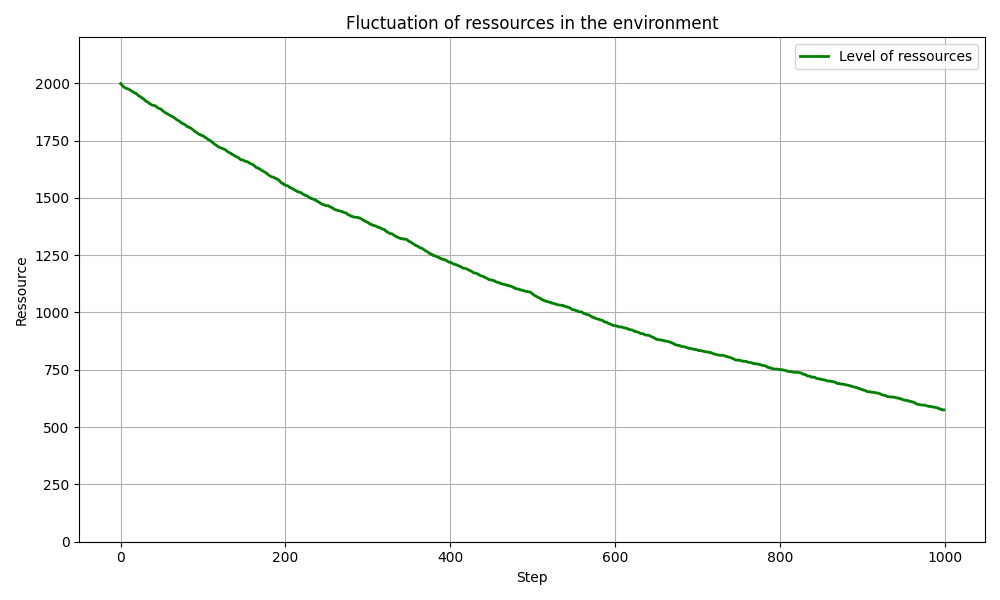
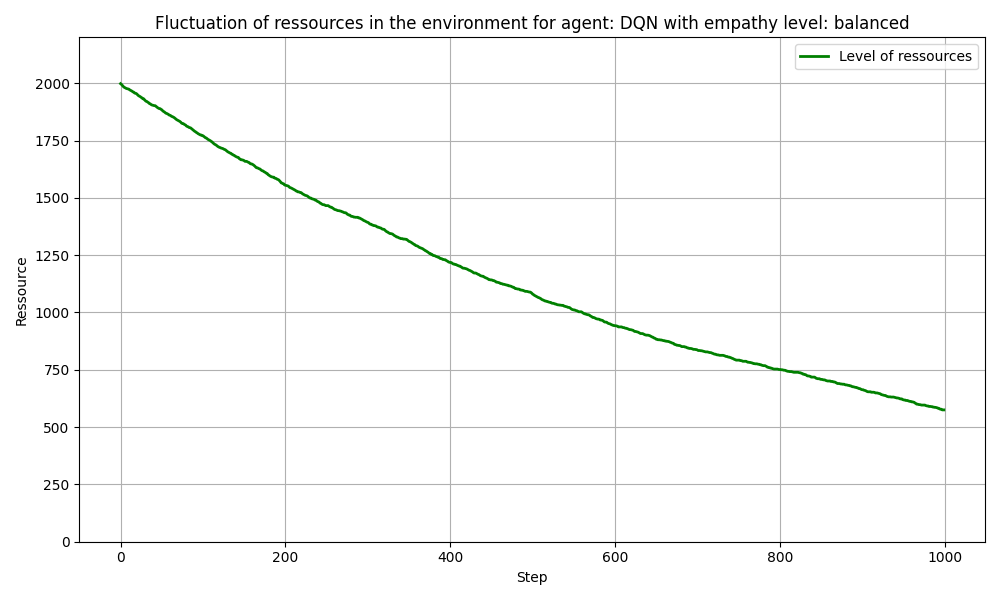
same as before

Changed region(s): [[0.155, 0.03, 0.93, 0.06]]

diff --git a/game_theoretic_setup/main_game_theoretic.py b/game_theoretic_setup/main_game_theoretic.py
@@ -161,7 +161,7 @@ def plot_resource_evolution(states_per_step, env, save_path="resource_evolution.
     plt.plot(steps, resources, label='Level of ressources', color='green', linewidth=2)
     plt.xlabel("Step")
     plt.ylabel("Ressource")
-    plt.title("Fluctuation of ressources in the environment")
+    plt.title(f"Fluctuation of ressources in the environment for agent: {agent_to_test} with empathy level: {empathy_to_test}")
     plt.ylim(0, env.initial_resources * 1.1)
     plt.grid(True)
     plt.legend()
